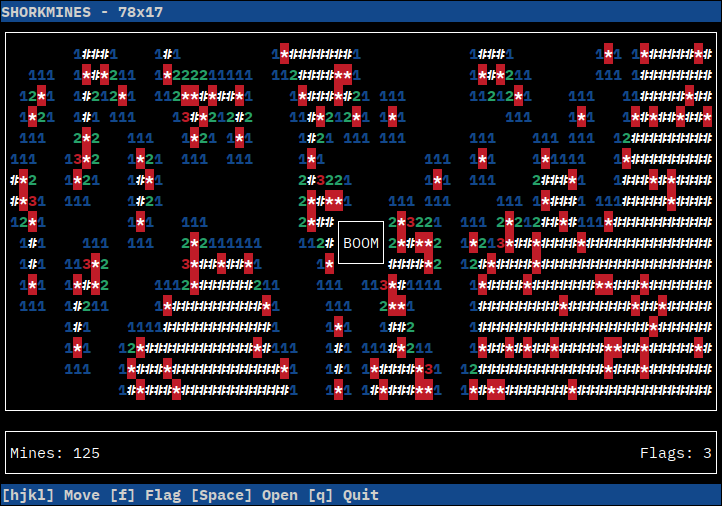
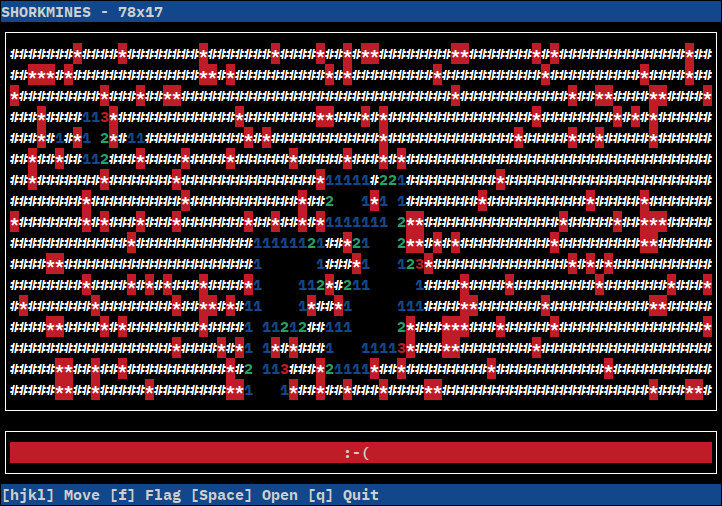
Update screenshots

diff --git a/README.md b/README.md
@@ -2,7 +2,7 @@
 
 An ncurses-based minesweeper game played using a keyboard instead of a mouse. It is a fork of Joel Ekström's [terminal-mines](https://github.com/joelekstrom/terminal-mines), which is a reference frontend for [libminesweeper](https://github.com/joelekstrom/libminesweeper). SHORKMINES is modified for use with SHORK Operating Systems such as [SHORK 486](https://github.com/SharktasticA/SHORK-486).
 
-<p align="center"><img alt="A screenshot of SHORKMINES running on SHORK 486" src="screenshots/vmware_shork-486_in_play.png"></p>
+<p align="center"><img alt="A screenshot of SHORKMINES running on SHORK 486 whilst in play" src="screenshots/vmware_shork-486_in_play.png"></p>
 
 
 
@@ -61,4 +61,14 @@ Usage: shorkmines [OPTIONS]
 
 ## Screenshots
 
-<p align="center"><img alt="A screenshot of SHORKMINES running on a modern PC with Debian 13" src="screenshots/sharktastica-desktop_hit_mine.png"></p>
+### Size & difficulty menu
+
+<p align="center"><img alt="A screenshot of SHORKMINES running on a modern PC with Debian 13 showing the select size and difficulty menu" src="screenshots/sharktastica-desktop_menu.png"></p>
+
+### In play
+
+<p align="center"><img alt="A screenshot of SHORKMINES running on a modern PC with Debian 13 whilst in play" src="screenshots/sharktastica-desktop_in_play.png"></p>
+
+### Hit mine
+
+<p align="center"><img alt="A screenshot of SHORKMINES running on a modern PC with Debian 13 after hitting a mine" src="screenshots/sharktastica-desktop_hit_mine.png"></p>